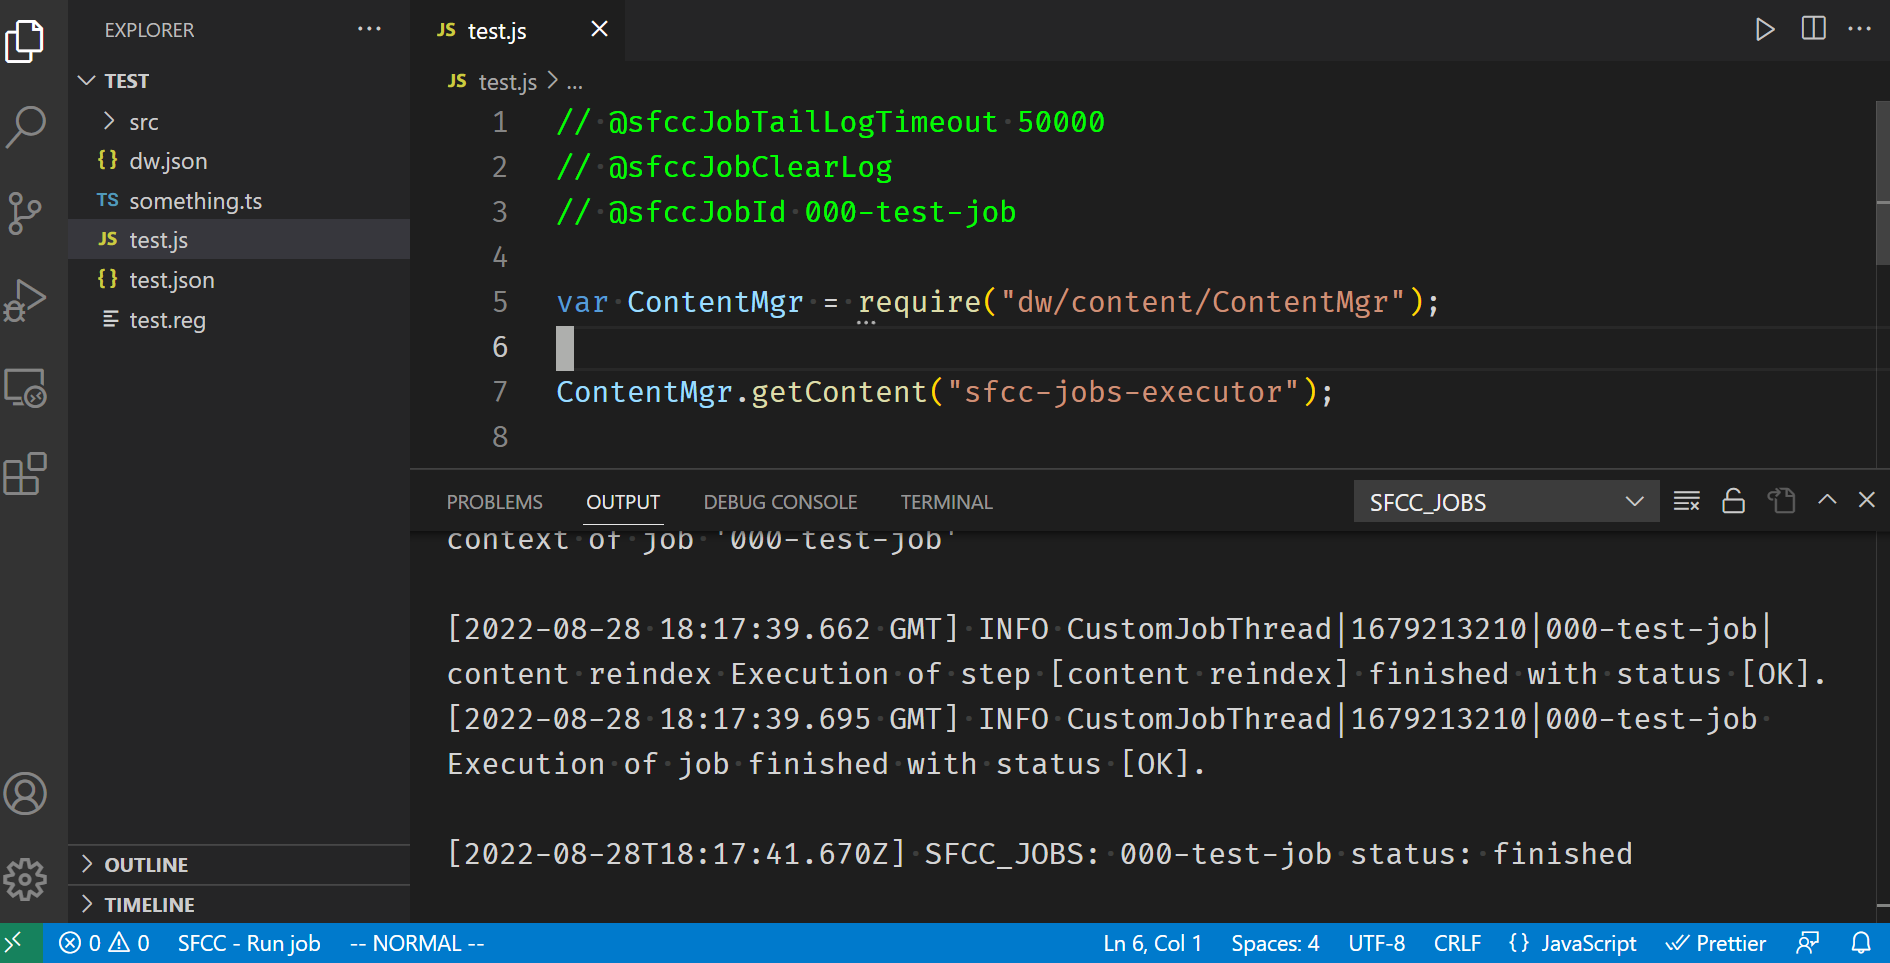
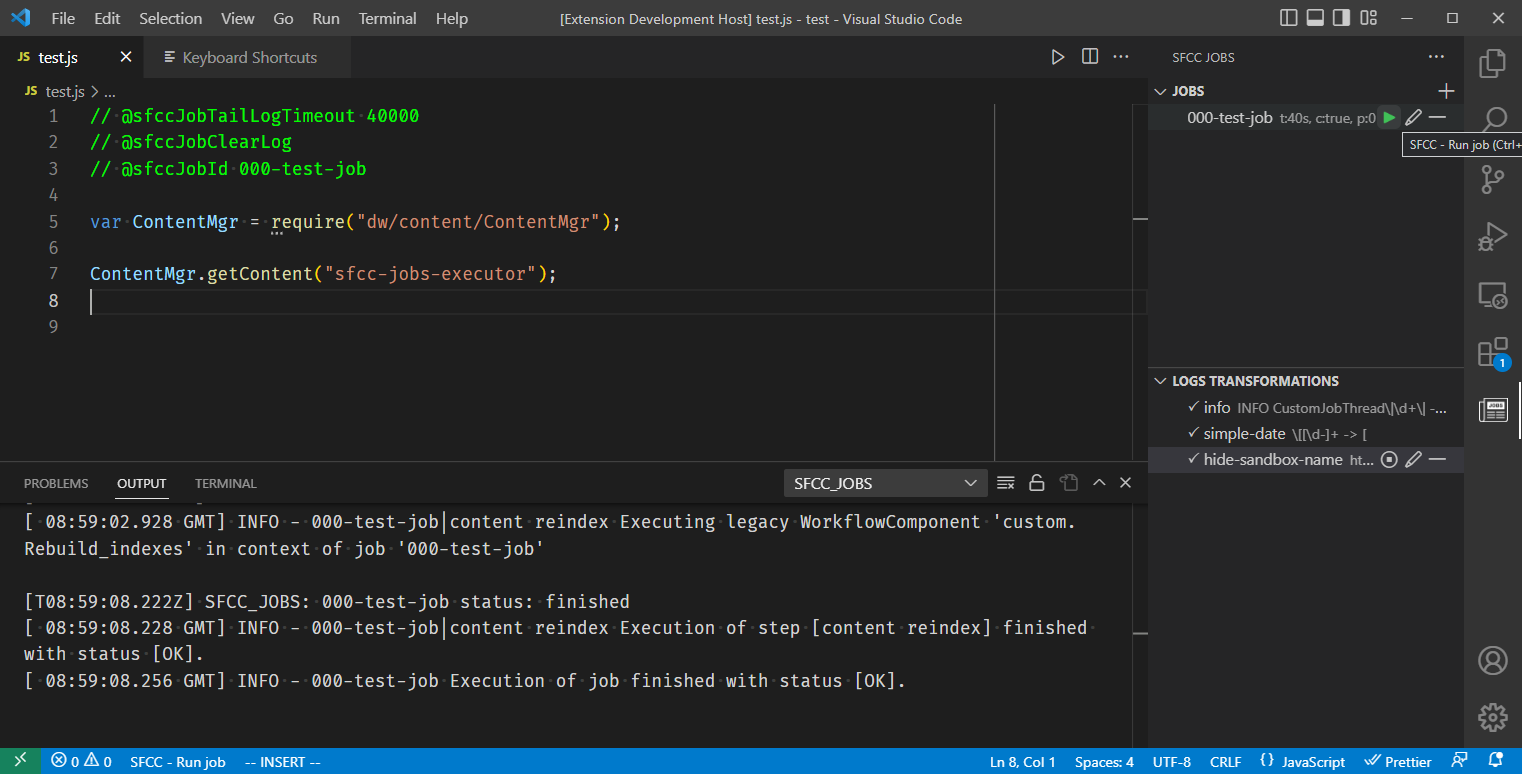
Version bump and updated the release notes and screenshots.

diff --git a/README.md b/README.md
@@ -1,6 +1,6 @@
 # SFCC Jobs Executor
 
-Run SFCC jobs from VSCode.
+Run SFCC jobs from VSCode and view the job logs in the output panel.
 
 ![screenshot](/screenshots/screen1.png)
 
@@ -15,6 +15,12 @@ You can install it from the [marketplace](https://marketplace.visualstudio.com/i
 `ext install ionutvmi.sfcc-jobs-executor`
 
 ## Configuration
+
+The job configurations can be controlled from the dedicated panel:
+![job configuration panel](./screenshots/job-configuration.png)
+
+The transformations can be controlled from the dedicated panel:
+![job configuration panel](./screenshots/transformation-configuration.png)
 
 ### Business Manager
 
@@ -98,9 +104,23 @@ To configure a custom keyboard shortcut:
 
 ```jsonc
 // keybindings.json
+// run the job from the current file
 {
   "key": "ctrl+shift+f6",
   "command": "sfcc-jobs-executor.runJob"
+}
+
+// run a specific job
+{
+    "key": "ctrl+shift+f6",
+    "command": "sfcc-jobs-executor.runJob",
+    "args": {
+        "job": {
+            "id": "000-test-job",
+            "timeout": 60000,
+            "clearLog": true
+        }
+    }
 }
 ```
 

diff --git a/CHANGELOG.md b/CHANGELOG.md
@@ -1,5 +1,14 @@
 # Change Log
 
+## [1.1.0] - 07/Nov/2022
+
+- Added support for logs transformation which can be used for hiding/highlighting keywords
+- Added an dedicated item in the activity bar for the SFCC jobs
+- Added an UI panel for managing the Jobs
+- Added an UI panel for managing the Logs Transformation
+- Added support for specifying the job configuration as args in the run command
+- Added auto save of the jobs that are executed using JSDoc file configuration
+
 ## [1.0.0] - 28/Aug/2022
 
 - Initial release
